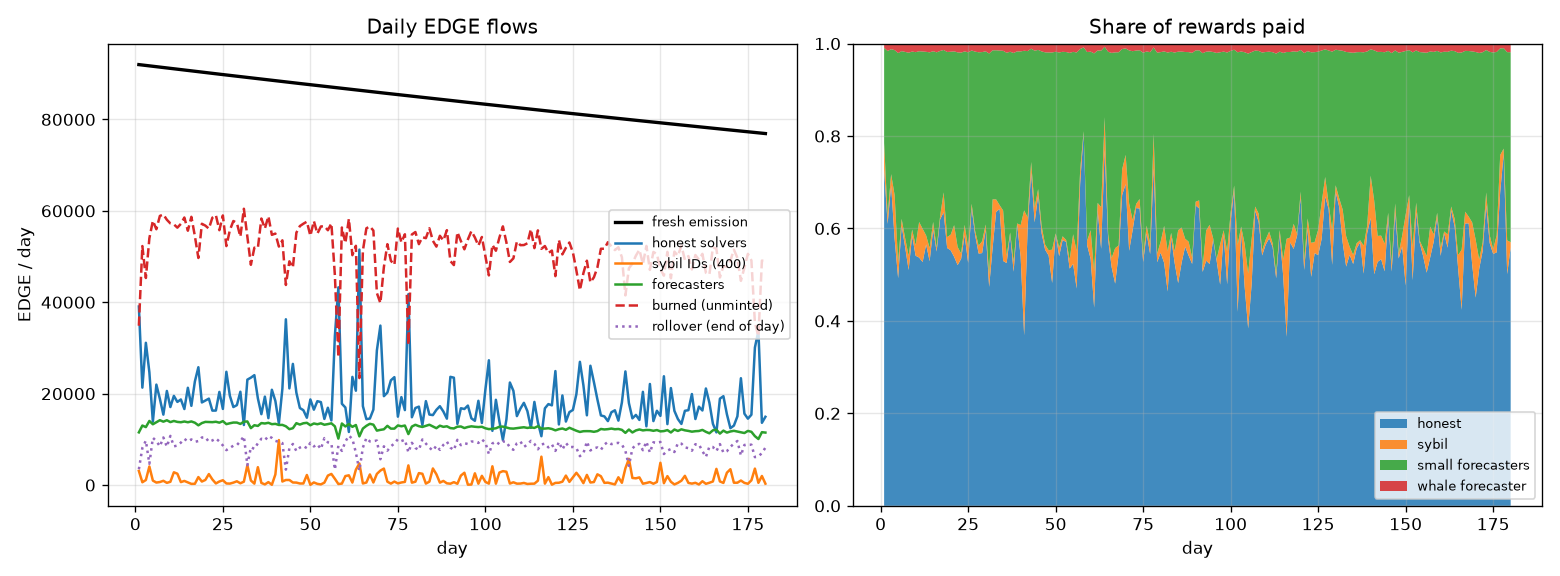
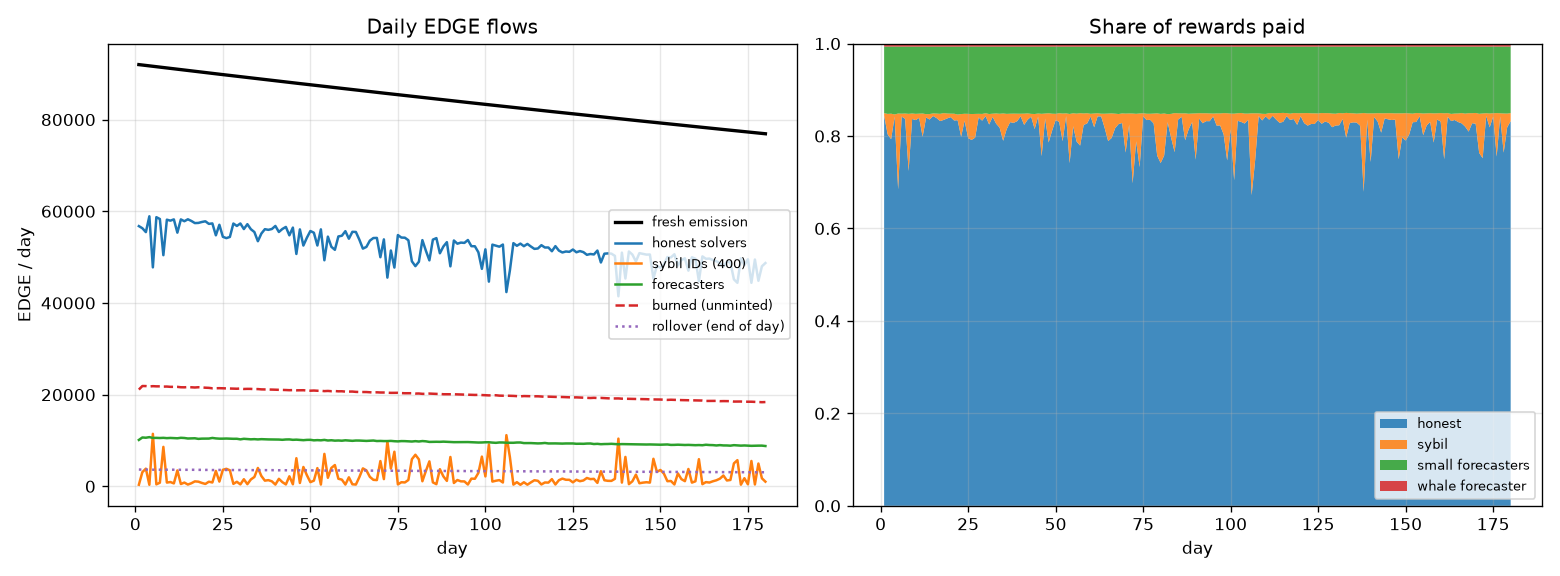
v3.1: crowding by distinct headcount, ladder tops at sweet spot; redeployed to BSC testnet

diff --git a/sim/pof_sim.py b/sim/pof_sim.py
@@ -4,8 +4,8 @@ $EDGE / PoF agent-based simulation (180 days).
 
 Mirrors the on-chain rules in contracts/PoFEngine.sol + ForecastMarket.sol:
   * daily emission 92,000 * 0.999^day, 4h rounds (6/day), round pool = emission + rollover
-  * 5 rungs, weight 2^r, difficulty doubles per rung, ladder re-centred on last sweet spot
-  * 80% solvers / 20% forecasters; g(n_eff): 0 | 0.7 | 1 | k/n_eff ; k = clamp(sqrt(active)/10, 3, 30)
+  * 5 rungs, weight 2^r, difficulty doubles per rung, top rung = last sweet spot (v3.1)
+  * 80% solvers / 20% forecasters; g(n) on distinct headcount n (v3.1): 0 | 0.7 | 1 | k/n ; k = clamp(sqrt(active)/10, 3, 30)
   * within rung split by reputation R; R in [0.1, 1], +0.05 distinct correct, -0.1 wrong,
     excess over 0.1 decays 1%/day when inactive
   * duplicate answers: only the first revealer counts; bond 10 EDGE burned on wrong answers
@@ -99,7 +99,7 @@ for day in range(DAYS):
         rollover = 0.0
         d["fresh"] += fresh
         solver_pool, f_pool = pool * 0.8, pool * 0.2
-        levels = sweet + np.arange(N_RUNGS) - N_RUNGS // 2
+        levels = sweet + np.arange(N_RUNGS) - (N_RUNGS - 1)  # v3.1: top rung = sweet spot
 
         committed = np.zeros(N_AGENTS, bool)
         rung_payout = np.zeros(N_RUNGS)
@@ -153,7 +153,7 @@ for day in range(DAYS):
         sumw = 2 ** N_RUNGS - 1
         paid = 0.0
         for r in range(N_RUNGS):
-            share = solver_pool * (2 ** r) / sumw * g(rung_neff[r], k)
+            share = solver_pool * (2 ** r) / sumw * g(len(distinct_solvers[r]), k)  # v3.1 headcount
             paid += share
             for a, ra in distinct_solvers[r]:
                 amt = share * ra / rung_neff[r]
@@ -163,7 +163,7 @@ for day in range(DAYS):
                     d["honest"] += amt
 
         # --- forecasters ---
-        outcome = [bucket(rung_neff[r], k) for r in range(N_RUNGS)]
+        outcome = [bucket(len(distinct_solvers[r]), k) for r in range(N_RUNGS)]
         weights = np.zeros(len(f_stake))
         for f in range(len(f_stake)):
             brier = 0.0

diff --git a/sim/results.md b/sim/results.md
@@ -4,27 +4,27 @@ Populations: 60 honest agents, 1 sybil operator x 400 IDs, 30 small forecasters 
 
 | Day | Fresh emission | Honest solvers | Sybil IDs | Forecasters (whale / others) | Burned (unminted) | Rollover (EOD) | Bonds burned | Sybil share | Honest share |
 |---:|---:|---:|---:|---:|---:|---:|---:|---:|---:|
-| 1 | 92,000 | 39,067 | 3,090 | 494 / 11,032 | 34,867 | 3,451 | 740 | 5.8% | 72.8% |
-| 7 | 91,449 | 18,874 | 659 | 606 / 13,584 | 58,886 | 8,466 | 440 | 2.0% | 56.0% |
-| 30 | 89,369 | 20,415 | 389 | 571 / 12,805 | 54,336 | 9,592 | 330 | 1.1% | 59.7% |
-| 60 | 86,726 | 16,970 | 1,964 | 551 / 12,267 | 52,949 | 9,502 | 390 | 6.2% | 53.4% |
-| 90 | 84,162 | 23,677 | 296 | 538 / 11,926 | 49,024 | 8,204 | 560 | 0.8% | 65.0% |
-| 120 | 81,673 | 24,941 | 476 | 515 / 11,453 | 45,713 | 7,473 | 590 | 1.3% | 66.7% |
-| 150 | 79,258 | 15,132 | 4,873 | 505 / 11,240 | 47,278 | 9,443 | 550 | 15.3% | 47.7% |
-| 180 | 76,915 | 14,935 | 306 | 499 / 10,983 | 48,995 | 8,184 | 410 | 1.1% | 55.9% |
+| 1 | 92,000 | 56,768 | 345 | 438 / 9,681 | 21,105 | 3,664 | 980 | 0.5% | 84.4% |
+| 7 | 91,449 | 58,317 | 796 | 453 / 10,088 | 21,810 | 3,626 | 850 | 1.1% | 83.7% |
+| 30 | 89,369 | 57,343 | 422 | 443 / 9,804 | 21,340 | 3,565 | 910 | 0.6% | 84.3% |
+| 60 | 86,726 | 55,667 | 389 | 430 / 9,610 | 20,661 | 3,435 | 960 | 0.6% | 84.2% |
+| 90 | 84,162 | 47,991 | 6,402 | 417 / 9,261 | 20,080 | 3,357 | 860 | 10.0% | 74.9% |
+| 120 | 81,673 | 52,397 | 403 | 405 / 8,959 | 19,507 | 3,264 | 1,090 | 0.6% | 84.3% |
+| 150 | 79,258 | 47,678 | 3,569 | 393 / 8,687 | 18,937 | 3,158 | 970 | 5.9% | 79.0% |
+| 180 | 76,915 | 48,712 | 1,016 | 381 / 8,413 | 18,384 | 3,070 | 990 | 1.7% | 83.2% |
 
 **180-day totals**
 
 | Metric | EDGE | Share of rewards paid |
 |---|---:|---:|
 | Fresh emission | 15,162,061 | |
-| Paid to honest solvers | 3,382,481 | 57.5% |
-| Paid to sybil IDs (400) | 232,837 | 4.0% |
-| Paid to whale forecaster | 97,697 | 1.7% |
-| Paid to 30 small forecasters | 2,170,534 | 36.9% |
-| Burned (never minted) | 9,270,328 | |
-| Rollover left at day 180 | 8,184 | |
-| Solver bonds burned | 85,840 | |
-| Forecaster stake slashed | 9,529 | |
-| Final sweet spot (log2 difficulty) | 13 | |
-| Mean R honest / sybil | 0.33 / 0.29 | |
+| Paid to honest solvers | 9,398,533 | 81.4% |
+| Paid to sybil IDs (400) | 399,193 | 3.5% |
+| Paid to whale forecaster | 75,099 | 0.7% |
+| Paid to 30 small forecasters | 1,670,344 | 14.5% |
+| Burned (never minted) | 3,615,821 | |
+| Rollover left at day 180 | 3,070 | |
+| Solver bonds burned | 170,080 | |
+| Forecaster stake slashed | 9,233 | |
+| Final sweet spot (log2 difficulty) | 10 | |
+| Mean R honest / sybil | 0.70 / 0.29 | |

diff --git a/deployments-bsc-testnet.md b/deployments-bsc-testnet.md
@@ -1,10 +1,30 @@
-# BSC Testnet (chainId 97) deployment — 2026-10-25
+# BSC Testnet (chainId 97) — v3.1, deployed 2026-10-25 21:02 CST
 Deployer (testnet-only throwaway): 0xCd6820591b5D9B321af278A09947772548FCBE91
-Timelock       0x9dCF9C3C1e1CbEcDF941ADf18A2bD5D73916DdFd
-EDGEToken      0xCC5626591222f59De330f4757621B6e5a1b56635
-Airdrop        0x51Bb3f92B4E29EC4CcAC6E31cc8aE08e8DFA268c
-IdentityGate   0x44166791E52e8F2b64912Ee3Fc243e3873e57158 (MockAgentGate)
-PoFEngine      0x495b7657575e4E317Bc5cA44daA10064982F5EE8
-BountyBoard    0xd3e90D517CBf161CDD18b4AC329E70B766625B33
-ForecastMarket 0x4D0F8D260c797A885D9444801815ecd3028bb8f2
-FeeCollector   0x51391BFc441dc4C79D2A258203C1DaFab0B784Be
+RPC: https://bsc-testnet-rpc.publicnode.com
+
+v3.1 changes vs v3: crowding g()/bucket counts distinct solutions by headcount (reputation only splits the share);
+ladder tops out at the sweet spot (top rung = frontier, difficulty halves going down).
+
+| Contract | Address |
+|---|---|
+| Timelock (7d) | 0x89cb45268604dc2946f5f076bcd2cc8e78bf52b7 |
+| EDGEToken | 0x50071e5a4eb6d161cfea1db65c5970473530ee40 |
+| AirdropDistributor | 0x8cacf13c54abbafd57793ef5c21109f14874adb8 |
+| IdentityGate (MockAgentGate) | 0x51966cc0406930b3aab617b09a4100738aa1537a |
+| Randomness (MockRandomness) | 0x6867ef9b11c605581f16a19d595108f67e8d2037 |
+| PoFEngine | 0x77a83d8f7570a1c0f958f2bc847772e9ff8a42b3 |
+| SubsetSumVerifier | 0xf58b1b7005fa26495378def5216fdb6a592204f1 |
+| ConstraintScheduleVerifier | 0x0f511c59edb9903bd7f5a6b719917a4dfb243f75 |
+| ProgramIOVerifier | 0x08e0f70ea212431ca24cced23c154f48358bb0d5 |
+| BountyBoard | 0xaec7dcfb51424e05e25cd1c3fb38dde49a99b340 |
+| ForecastMarket | 0x4074bc0ad39f12bd945558a6d78d6fa3ca925e8e |
+| FeeCollector | 0x0447ea45495d33ed1e534779a7e4442a06cd57b4 |
+
+## Deprecated v3 deployment (round 1 demo ran here)
+Timelock 0x9dCF9C3C1e1CbEcDF941ADf18A2bD5D73916DdFd, EDGEToken 0xCC5626591222f59De330f4757621B6e5a1b56635,
+PoFEngine 0x495b7657575e4E317Bc5cA44daA10064982F5EE8, IdentityGate 0x44166791E52e8F2b64912Ee3Fc243e3873e57158,
+BountyBoard 0xd3e90D517CBf161CDD18b4AC329E70B766625B33, ForecastMarket 0x4D0F8D260c797A885D9444801815ecd3028bb8f2,
+FeeCollector 0x51391BFc441dc4C79D2A258203C1DaFab0B784Be, Airdrop 0x51Bb3f92B4E29EC4CcAC6E31cc8aE08e8DFA268c
+
+## Sim (180 days, v3.1)
+Emission 15,162,061 EDGE; honest solvers 81.4%, 400 sybil IDs 3.5%, small forecasters 14.5%, whale 0.7%; burned ~24% (v3: ~60%).

diff --git a/sim/results_v3.md b/sim/results_v3.md
@@ -1,0 +1,30 @@
+# PoF 180-day simulation results
+
+Populations: 60 honest agents, 1 sybil operator x 400 IDs, 30 small forecasters + 1 whale (1M EDGE stake). Seed 42.
+
+| Day | Fresh emission | Honest solvers | Sybil IDs | Forecasters (whale / others) | Burned (unminted) | Rollover (EOD) | Bonds burned | Sybil share | Honest share |
+|---:|---:|---:|---:|---:|---:|---:|---:|---:|---:|
+| 1 | 92,000 | 39,067 | 3,090 | 494 / 11,032 | 34,867 | 3,451 | 740 | 5.8% | 72.8% |
+| 7 | 91,449 | 18,874 | 659 | 606 / 13,584 | 58,886 | 8,466 | 440 | 2.0% | 56.0% |
+| 30 | 89,369 | 20,415 | 389 | 571 / 12,805 | 54,336 | 9,592 | 330 | 1.1% | 59.7% |
+| 60 | 86,726 | 16,970 | 1,964 | 551 / 12,267 | 52,949 | 9,502 | 390 | 6.2% | 53.4% |
+| 90 | 84,162 | 23,677 | 296 | 538 / 11,926 | 49,024 | 8,204 | 560 | 0.8% | 65.0% |
+| 120 | 81,673 | 24,941 | 476 | 515 / 11,453 | 45,713 | 7,473 | 590 | 1.3% | 66.7% |
+| 150 | 79,258 | 15,132 | 4,873 | 505 / 11,240 | 47,278 | 9,443 | 550 | 15.3% | 47.7% |
+| 180 | 76,915 | 14,935 | 306 | 499 / 10,983 | 48,995 | 8,184 | 410 | 1.1% | 55.9% |
+
+**180-day totals**
+
+| Metric | EDGE | Share of rewards paid |
+|---|---:|---:|
+| Fresh emission | 15,162,061 | |
+| Paid to honest solvers | 3,382,481 | 57.5% |
+| Paid to sybil IDs (400) | 232,837 | 4.0% |
+| Paid to whale forecaster | 97,697 | 1.7% |
+| Paid to 30 small forecasters | 2,170,534 | 36.9% |
+| Burned (never minted) | 9,270,328 | |
+| Rollover left at day 180 | 8,184 | |
+| Solver bonds burned | 85,840 | |
+| Forecaster stake slashed | 9,529 | |
+| Final sweet spot (log2 difficulty) | 13 | |
+| Mean R honest / sybil | 0.33 / 0.29 | |
